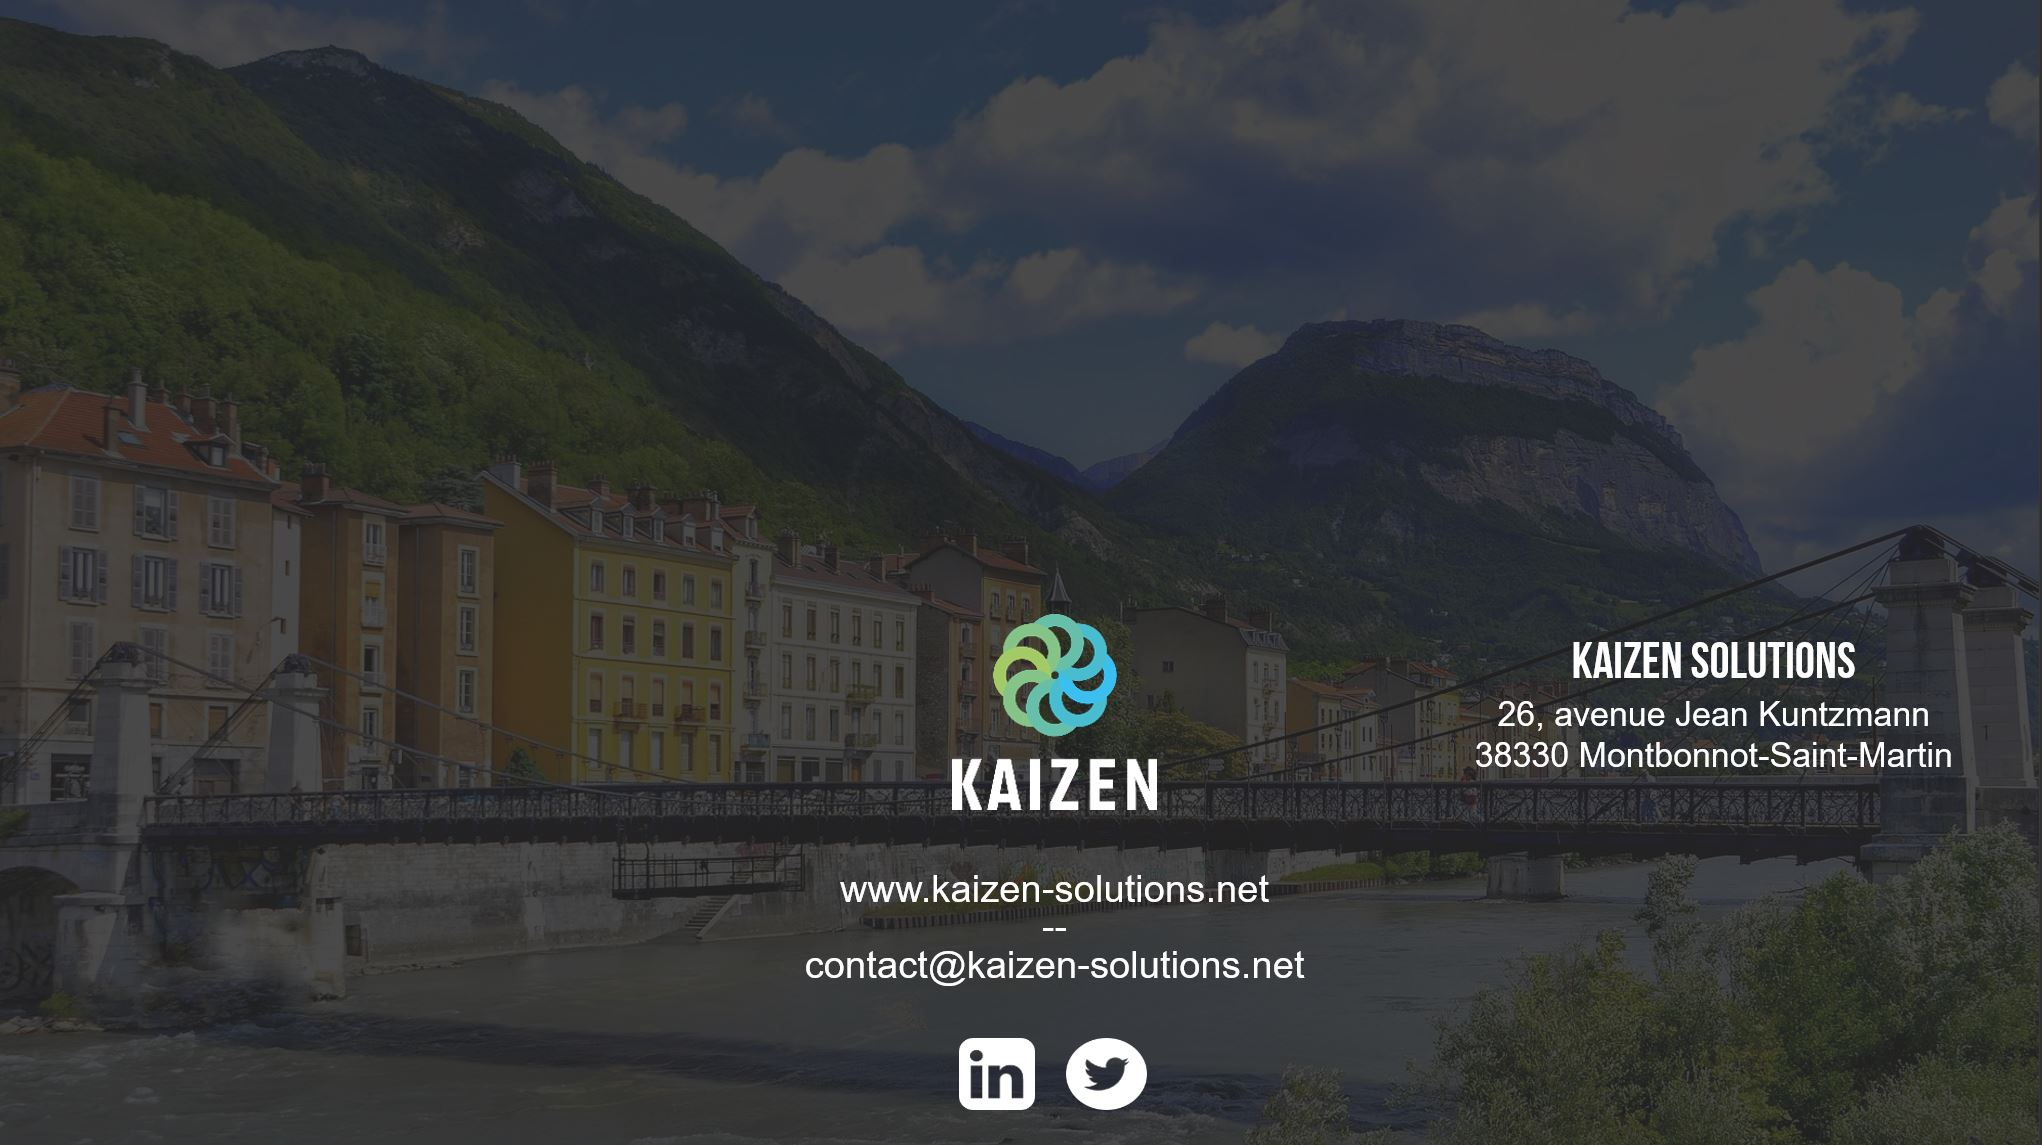
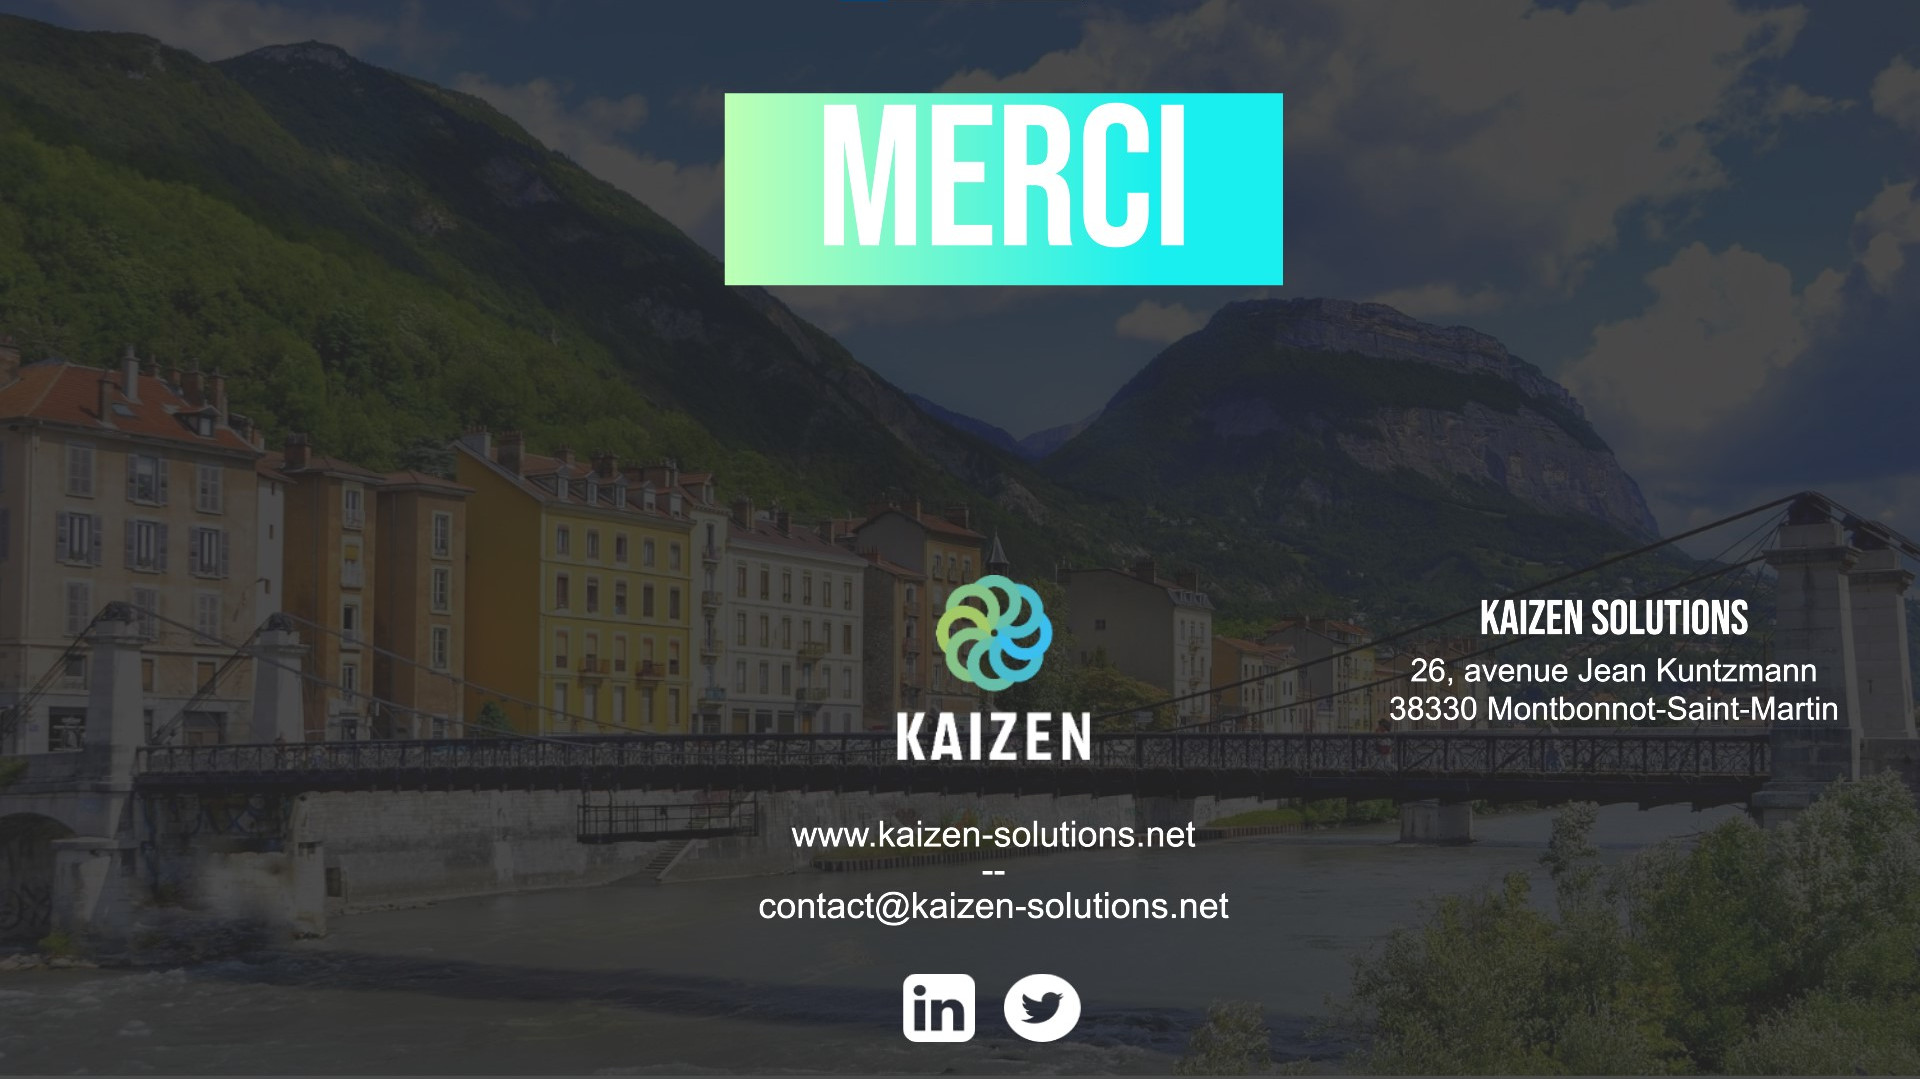
Appliquer le style officiel pour la planche de fin

diff --git a/theme/theme.css b/theme/theme.css
@@ -55,3 +55,6 @@
 	margin-top: auto;
 	margin-bottom: auto;
 }
+.blank {
+	background: none !important;
+}

diff --git a/src/content.md b/src/content.md
@@ -267,5 +267,6 @@ affiche et anime des présentations dans les navigateurs modernes
 - [structure : Danist Soh](https://unsplash.com/photos/2vhSS6ksgD0)
 - [bibliothèque : Darwin Vegher](https://unsplash.com/photos/W_ZYCEUapF0)
 
+# { .blank data-background-image="theme/image page de fin.jpg" }
 
-# Merci ! { data-background-image="theme/image page de fin.jpg" }
+
